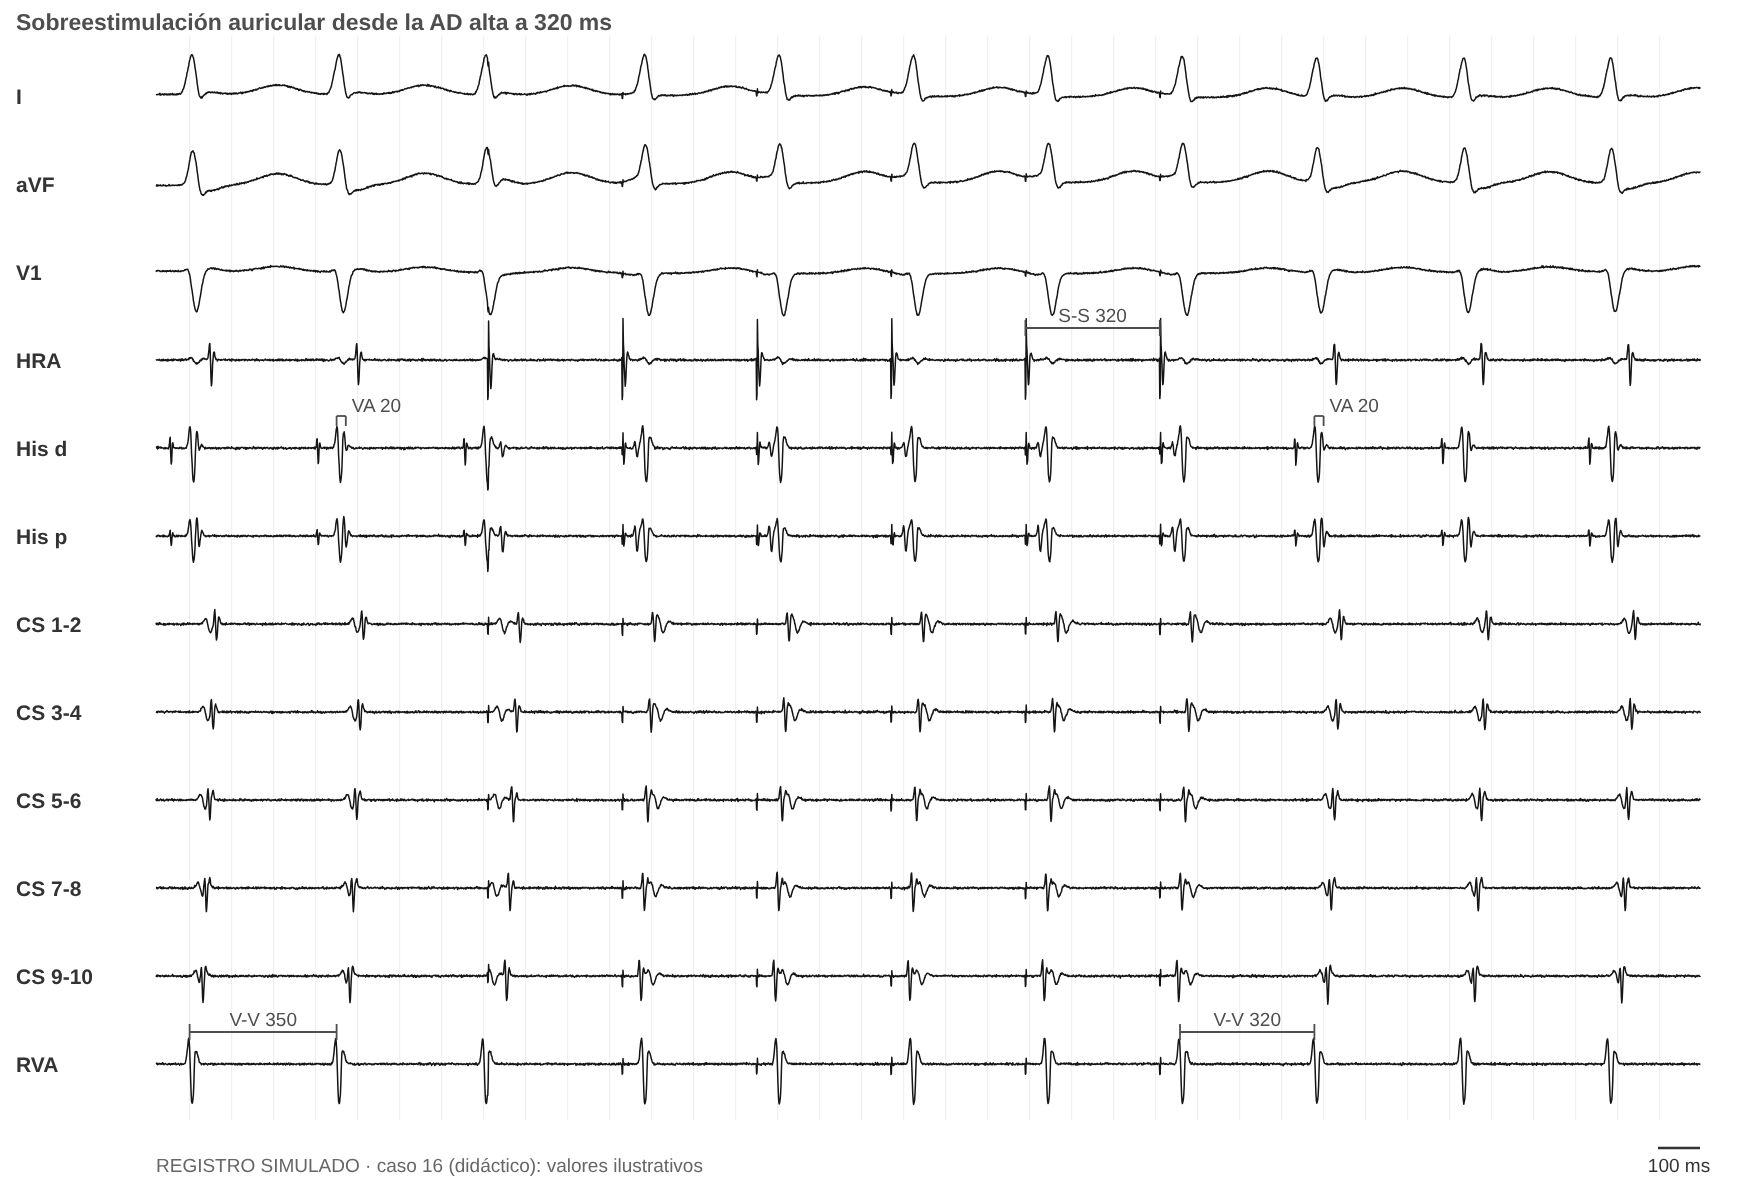
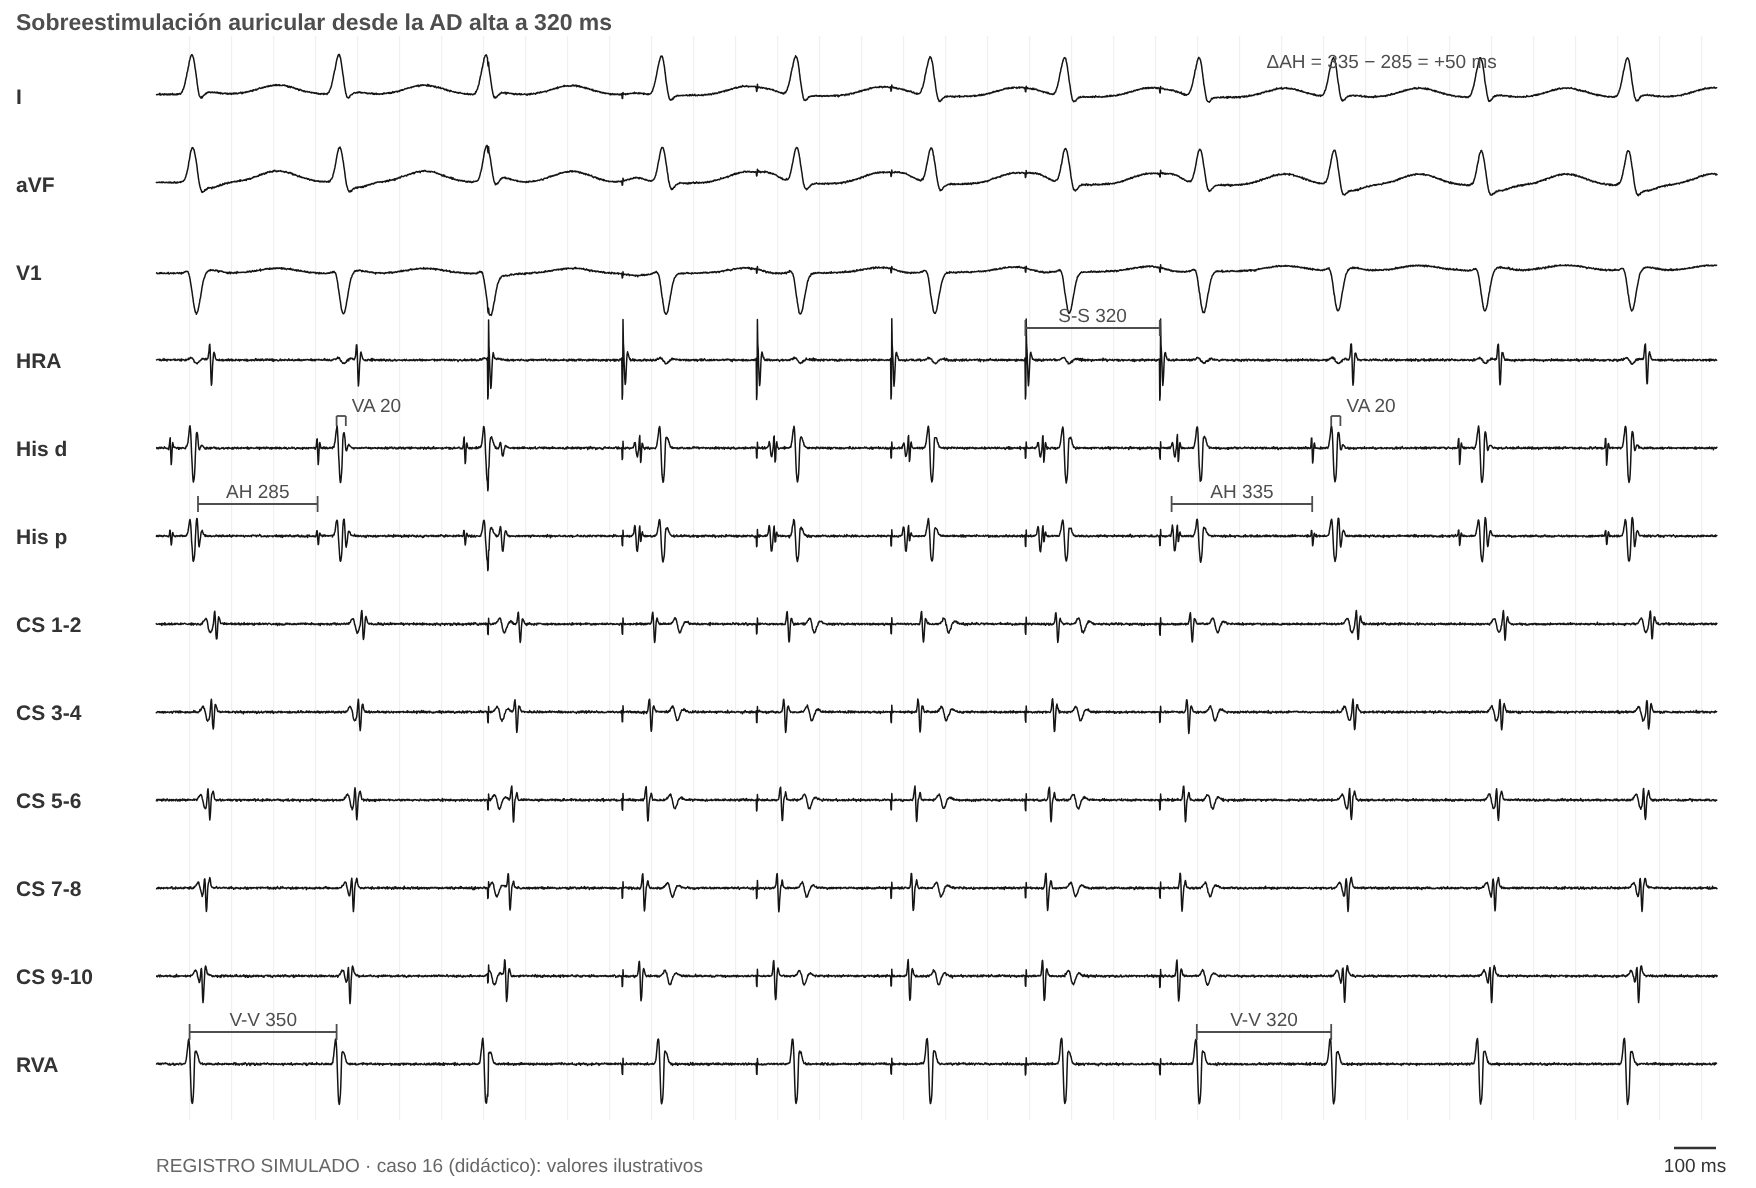
Caso 16: AH y ΔAH en la sobreestimulación auricular
Claude-Session: https://claude.ai/code/session_01Pw5rjt62KK5LeJZoEyFiaM

diff --git a/index.html b/index.html
@@ -313,7 +313,7 @@ dialog::backdrop{background:rgba(0,0,0,.45)}
 
 <div id="visor" hidden role="dialog" aria-label="Imagen ampliada"><div class="vbar"><button type="button" class="vm" aria-label="Achicar">−</button><button type="button" class="vp" aria-label="Agrandar">+</button><button type="button" class="vf">Ajustar</button><button type="button" class="vx">✕ Cerrar</button></div><div class="vbox"><img alt=""></div></div>
 <script>
-const APPV = 178;   // igual al número de CACHE_VERSION de sw.js
+const APPV = 179;   // igual al número de CACHE_VERSION de sw.js
 // ===============================================================================================================
 // Referencias. "propia" = artículo del material base; las demás se citan a través de esas revisiones.
 // ===============================================================================================================
@@ -1495,7 +1495,7 @@ const PCASOS = [
       medidas: { v: 'PPI 500 ms con LC 350 (PPI−LC 150). SA 150 ms (en el SC 1-2) con VA 20 (SA−VA 130).', r: 'PPI−LC > 115: el ventrículo no está en el circuito (TRNAV). El SA se midió sobre una A que subió por la vía, no por el circuito: el SA−VA no se interpreta.', u: 'util', img: 'figs/sim/prac/p16_medidas.png' },
       diff: { v: 'Encarrilando a 320 ms: SA 150 desde el ápex y SA 140 desde la base del VD (A más precoz en el SC 1-2). ΔVA (base − ápex) −10 ms.', r: 'Engañosa: el ΔVA ≤ 20 sugiere TRAV, pero durante la estimulación la A sube por la vía espectadora, no por el circuito; no sirve para el diagnóstico de la taquicardia.', u: 'trampa', img: 'figs/sim/prac/p16_diff.png' },
       parahis: { v: 'En sinusal, con captura del His: SA 85, activación concéntrica. Solo V: SA 150 con la A más precoz en el SC 1-2 (excéntrica).', r: 'Cambio de secuencia al perder el His: la A llega por una vía izquierda. Demuestra la vía, pero no que participe en la taquicardia.', u: 'util', img: 'figs/sim/prac/p16_parahis.png' },
-      aop: { v: 'Estimulando la AD alta a 320 ms los V se aceleran a 320 (V-V 320; en la TSV, 350). Al cortar, el VA del primer latido es 20 ms, igual al de la TSV.', r: 'VA linking: excluye la TA.', u: 'util', img: 'figs/sim/prac/p16_aop.png' },
+      aop: { v: 'Estimulando la AD alta a 320 ms los V se aceleran a 320 (V-V 320; en la TSV, 350) con AH 335 (en la TSV, 285). Al cortar, el VA del primer latido es 20 ms, igual al de la TSV.', r: 'VA linking: excluye la TA. ΔAH (AH estimulando − AH en la TSV) = +50 ms, > 40: la aurícula no forma parte del circuito; apoya la TRNAV.', u: 'util', img: 'figs/sim/prac/p16_aop.png' },
       eha: { v: 'EA desde el ostium del SC con el His refractario: el His siguiente se retrasa 15 ms (H-H 365).', r: 'El EA entra en el circuito por la vía lenta aunque el His esté refractario: TRNAV.', u: 'util', img: 'figs/sim/prac/p16_eha.png' },
       ado: { v: 'La taquicardia termina: el último latido es una A que no conduce al V.', r: 'Termina con bloqueo anterógrado en el nodo (vía lenta): excluye la TA.', u: 'util', img: 'figs/sim/prac/p16_ado.png' } },
     dx: ['trnav_t', 'bys'], ex: 'Durante la TSV el VA septal es de 20 ms y la activación es concéntrica: una TSV así no puede usar una vía lateral izquierda, y el VA ≤ 70 ms excluye la TRAV. La vía existe (conducción VA excéntrica al estimular el ventrículo y en la para-Hisiana sin His), pero no participa: la EV con His refractario adelanta una A con otra secuencia sin resetear la taquicardia, y al cortar la sobreestimulación la respuesta es A-V con vuelta a la secuencia concéntrica. El encarrilamiento diferencial engaña porque la A sube por la vía durante la estimulación. TRNAV típica con una vía izquierda espectadora: se ablaciona la vía lenta y también la vía.', refs: ['knight00', 'veen12'] },

diff --git a/sw.js b/sw.js
@@ -1,6 +1,6 @@
 // Permite instalar la app y abrirla sin conexión. Primero la red (siempre lo último publicado); si no hay, la copia.
 // Si cambiás un archivo, subí CACHE_VERSION.
-const CACHE_VERSION = 'mef-v178';
+const CACHE_VERSION = 'mef-v179';
 const ARCHIVOS = ['./', './index.html', './manifest.json', './iconos/icon-192.png', './iconos/icon-512.png'];
 self.addEventListener('install', e => e.waitUntil(caches.open(CACHE_VERSION).then(c => c.addAll(ARCHIVOS)).then(() => self.skipWaiting())));
 self.addEventListener('activate', e => e.waitUntil(caches.keys().then(ks => Promise.all(ks.filter(k => k !== CACHE_VERSION).map(k => caches.delete(k)))).then(() => self.clients.claim())));
